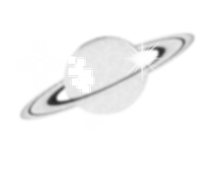
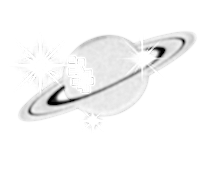
P3: Editing picture sizes to figure out why planet3array isn't displayig, editing out irrelevant stuff from main script, planet class

diff --git a/Projects/Project 3/js/script.js b/Projects/Project 3/js/script.js
@@ -42,15 +42,12 @@ let endscreenImage;
 let textSpeech = "YOU ARE VERY HUNGRY.";
 let pixelFont;
 let playerX = 200;
-let playerY = 130;
+let playerY = 500;
 let playerVX = 0;
 let playerVY = 0;
 let playerSpeed = 10;
-let planet1;
 let planet1Image;
 let planet1Array = [];
-let planet1ArrayIndex = 0;
-let currentP1ArrayImage;
 let planet2Array = [];
 let planet3Array = [];
 let flamingoArray = [];
@@ -58,12 +55,9 @@ let planet1Appear = true;
 let planet1Event = false;
 let planet2;
 let planet2Image;
-let planet2Appear = true;
-let planet2Event = false;
 let planet3;
 let planet3Image;
-let planet3Appear = true;
-let planet3Event = false;
+
 //Declare game states and land states to transition between landscapes or menus/game
 let gameState = 0;
 let landState = 0;
@@ -110,6 +104,9 @@ let characterObject2;
 let characterObject3;
 
 let playerObject;
+
+let menArray = [];
+let messageSound;
 //preload
 //
 //Loads linked resources.
@@ -201,6 +198,12 @@ for (let i = 0; i <=6; i++){
   let flamingoImage = loadImage(flamingoPath);
   flamingoArray.push(flamingoImage);
 }
+
+for(let i = 1; i<= 6; i++){
+  let menPath = "assets/images/men/men" + i + ".png";
+  let menImage = loadImage(menPath);
+  menArray.push(menImage);
+}
   // planet2Image = loadImage("assets/images/eyeball/eyeball.png");
   planet3Image = loadImage("assets/images/eyeball/eyeball.png");
   dogImage = loadImage("assets/images/littledog.png");
@@ -215,6 +218,7 @@ for (let i = 0; i <=6; i++){
   flamingoMidImage = loadImage("assets/images/flamingomedium.png");
 
   tropicalSound = loadSound("assets/sounds/tropical.wav");
+  messageSound = loadSound("assets/sounds/shortelectronic.wav");
 }
 //draw
 //
@@ -289,7 +293,9 @@ function draw() {
     for (let i = 0; i < charactersArray.length; i++) {
       charactersArray[i].move();
       charactersArray[i].draw(landState, flamingoObject);
+      charactersArray[i].handleWrapping();
       charactersArray[i].checkDistance(playerX, playerY, playerWidth);
+      charactersArray[i].checkTextSpeech(playerX, playerY, playerWidth, textSpeech);
     }
     starObject.draw();
     flamingoObject.draw(landState);
@@ -376,71 +382,71 @@ function movePlayerThroughLandscape() {
       landState = 1;
       // Setting coordinates to make it easier to see if this screen movement is working. may change in later prototype
       playerX = 25;
-      playerY = 300;
+      playerY = 7300;
     } else if (playerX < 0) {
       landState = 5;
-      playerX = 25;
-      playerY = 300;
+      playerX = 1300;
+      playerY = 700;
     }
   }
   if (landState === 1) {
     if (playerX >= width) {
       landState = 2;
       playerX = 25;
-      playerY = 300;
+      playerY = 700;
     } else if (playerX < 0) {
       landState = 0;
-      playerX = 25;
-      playerY = 300;
+      playerX = 1300;
+      playerY = 700;
     }
   }
   if (landState === 2) {
     if (playerX >= width) {
       landState = 3;
       playerX = 25;
-      playerY = 300;
+      playerY = 700;
     } else if (playerX < 0) {
       landState = 1;
-      playerX = 25;
-      playerY = 300;
+      playerX = 1300;
+      playerY = 700;
     }
   }
   if (landState === 3) {
     if (playerX >= width) {
       landState = 4;
       playerX = 25;
-      playerY = 300;
+      playerY = 700;
     } else if (playerX < 0) {
       landState = 2;
-      playerX = 25;
-      playerY = 300;
+      playerX = 1300;
+      playerY = 700;
     }
   }
   if (landState === 4) {
     if (playerX >= width) {
       landState = 5;
       playerX = 25;
-      playerY = 300;
+      playerY = 700;
     } else if (playerX < 0) {
       landState = 3;
-      playerX = 25;
-      playerY = 300;
+      playerX = 1300;
+      playerY = 700;
     }
   }
   if (landState === 5) {
     if (playerY >= width) {
       landState = 0;
       playerX = 500;
-      playerY = 20;
+      playerY = 700;
     } else if(playerX < 0){
       landState = 4;
-      playerX = 25;
-      playerY= 300;
+      playerX = 500;
+      playerY= 700;
     }
     if (playerY < 0) {
       landState = 6;
-      playerX = 25;
-      playerY = 300;
+      playerX = 500;
+      playerY = 700;
     }
   }
   if (landState === 6) {
@@ -451,8 +457,8 @@ function movePlayerThroughLandscape() {
     }
     else if(playerY < 0){
       landState = 7;
-      playerX = 25;
-      playerY = 300;
+      playerX = 500;
+      playerY = 700;
     }
   }
   if (landState === 7) {
@@ -463,16 +469,17 @@ function movePlayerThroughLandscape() {
     }
     else if(playerY < 0){
       landState = 8;
-      playerX = 25;
-      playerY = 300;
+      playerX = 300;
+      playerY = 700;
     }
   }
   if (landState === 8) {
     if (playerY >= height) {
       landState = 7;
       playerX = 500;
-      playerY = 20;
+      playerY = 700;
     }
+
   }
 if ( landState ===0 || landState == 1 || landState == 2 || landState == 3 || landState == 4) {
   playerY = constrain(playerY, 0, height-100);
@@ -480,6 +487,9 @@ if ( landState ===0 || landState == 1 || landState == 2 || landState == 3 || lan
 
 if (landState == 6|| landState == 7 || landState == 8){
   playerX = constrain(playerX, 0, width-75);
+  if(landState == 8){
+    playerY = constrain(playerY, -70, height);
+  }
 }
 }
 
@@ -511,14 +521,14 @@ function landState1Display() {
 //
 //This displays game objects in the third landstate that arent loaded through Planet class
 function landState2Display() {
-  // Create formula for sin oscillation based on radius
-  let growth2 = sin(angle) * (radius / 8);
-  // Display relevant NPC images
-  image(menImage, 600, 500, menWidth, 86 + growth2);
-  image(menImage, 650, 450, menWidth, 86 + growth2);
-  image(menImage, 550, 400, menWidth, 86 + growth2);
-  // Update angle every frame to create oscillation
-  angle += 0.05;
+  // // Create formula for sin oscillation based on radius
+  // let growth2 = sin(angle) * (radius / 8);
+  // // Display relevant NPC images
+  // image(menImage, 600, 500, menWidth, 86 + growth2);
+  // image(menImage, 650, 450, menWidth, 86 + growth2);
+  // image(menImage, 550, 400, menWidth, 86 + growth2);
+  // // Update angle every frame to create oscillation
+  // angle += 0.05;
   //Check player distance to NPC and if close enough display text
   let d = dist(playerX, playerY, 550, 500);
   if (d < playerWidth + menWidth) {
@@ -547,7 +557,7 @@ function landState6Display() {
   let volume1 = map(playerY, height, 0, 0, 1);
   volume1 = constrain(volume1, 0.3, 0.6);
   tropicalSound.amp(volume1);
-
+image(flamingoMidImage, 500, 0, flamingoMidImage.width, flamingoMidImage.height);
 }
 function landState7Display() {
   textSpeech = "landstate7";
@@ -557,6 +567,7 @@ function landState7Display() {
   let volume2 = map(playerY, height, 0, 0, 1);
   volume2 = constrain(volume2, 0.6, 0.9);
   tropicalSound.amp(volume2);
+  image(flamingoMidImage, 500, 0, flamingoMidImage.width, flamingoMidImage.height);
 }
 function landState8Display() {
   textSpeech = "landstate8";
@@ -569,23 +580,38 @@ function landState8Display() {
 function callClassObjects() {
   playerObject = new Player (100, 50, 10, playerLeft1, playerRight1, eatSound);
 
-  let planetObject1 = new Planet(850, 50, planet2Array, spaceGif, 0, eatSound, crumbsImage);
-  let planetObject2 = new Planet(850, 50, planet2Array, 1, eatSound, crumbsImage);
-  let planetObject3 = new Planet(850, 50, planet3Array, 2, eatSound, crumbsImage);
-  let planetObject4 = new Planet(850, 50, planet3Array, 3, eatSound, crumbsImage);
-  let planetObject5 = new Planet(850, 50, planet3Array, 4, eatSound, crumbsImage);
+  let planetObject1 = new Planet(850, 50, planet2Array, spaceGif, 0, eatSound);
+  let planetObject2 = new Planet(850, 50, planet1Array,spaceGif, 1, eatSound);
+  let planetObject3 = new Planet(850, 50, planet1Array,spaceGif, 2, eatSound);
+  let planetObject4 = new Planet(500, 50, planet3Array, spaceGif, 0, eatSound);
+  let planetObject5 = new Planet(500, 50, planet3Array, spaceGif, 0, eatSound);
   planetsArray.push(planetObject1);
   planetsArray.push(planetObject2);
   planetsArray.push(planetObject3);
 
   flamingoObject = new Flamingo(300, 100, flamingoArray, 8, eatSound);
 
-  characterObject1 = new Character(200, 300, planet1Array, 0, eatSound, 4);
-  characterObject2 = new Character(300, 300, planet1Array, 0, eatSound, 6);
-  characterObject3 = new Character(350, 300, planet1Array, 0, eatSound, 8);
+  characterObject1 = new Character(200, 300, menArray, 0, messageSound, 1, "NONONONONNO");
+  characterObject2 = new Character(300, 300, menArray, 0, messageSound, 2, "GAH");
+  characterObject3 = new Character(350, 300, menArray, 0, messageSound, 0.2, "FAREWELL SWEET PRINCE");
+  characterObject4 = new Character(350, 300, menArray, 0, messageSound, 0.2, "FAREWELL SWEET PRINCE");
+  characterObject5 = new Character(600, 350, menArray, 2, messageSound, 0.2, "GAH");
+  characterObject6 = new Character(750, 300, menArray, 2, messageSound, 0.2, "FAREWELL SWEET PRINCE");
+  characterObject7 = new Character(760, 305, menArray, 2, messageSound, 0.2, "FAREWELL SWEET PRINCE");
+  characterObject8 = new Character(700, 350, menArray, 2, messageSound, 0.3, "GAH");
+  characterObject9 = new Character(650, 320, menArray, 2, messageSound, 0.2, "FAREWELL SWEET PRINCE");
+  characterObject10 = new Character(620, 310, menArray, 2, messageSound, 0.2, "FAREWELL SWEET PRINCE");
+  
   charactersArray.push(characterObject1);
   charactersArray.push(characterObject2);
   charactersArray.push(characterObject3);
+  charactersArray.push(characterObject4);
+  charactersArray.push(characterObject5);
+  charactersArray.push(characterObject6);
+  charactersArray.push(characterObject7);
+  charactersArray.push(characterObject8);
+  charactersArray.push(characterObject9);
+  charactersArray.push(characterObject10);
 
 }
 //displayPlayer
@@ -620,10 +646,6 @@ function checkDistanceDog() {
       secondDogAppear = true;
       return;
     }
-    // This is irrelevant but i'm keeping it here for reference
-    // if (keyIsDown(SHIFT)) {
-    //   triggerAnimationPlanet1();
-    // }
   }
 }
 
@@ -651,18 +673,6 @@ function mousePressed() {
   }
   // If game has started, player can basically 'print'  stars by clicking mouse
   if (gameState === 1) {
-    // if(gifArrayCount<4){
-    //   gifArrayCount++;
-    //
-    // }
-    // // else{
-    // //     gifArrayCount=0;
-    // // }
-    // //all this stuff would just be 'create star object'
-    // for (let i = 0; i < gifArrayCount; i++) {
-    //    console.log(i)
-    //     gifArray[i].position(mouseX, mouseY);
-    // }
 
     starObject = new Star(mouseX, mouseY);
   }

diff --git a/Projects/Project 3/js/Character.js b/Projects/Project 3/js/Character.js
@@ -1,6 +1,6 @@
 class Character extends Planet{
-  constructor (x, y, array, landState, eatSound, speed){
-    super(x, y, array, landState, eatSound) // can i use these although they're titled diferently in the planet file?? do i have to declare them here
+  constructor (x, y, array, landState, messageSound, speed, textSpeech){
+    super(x, y, array, landState) // can i use these although they're titled diferently in the planet file?? do i have to declare them here
     this.x = x;
     this.y = y;
     // Velocity and speed
@@ -19,6 +19,7 @@ class Character extends Planet{
     // Sin properties for oscillation 'animation'
     this.angle = 0;
     this.radius = this.width/2;
+    this.textSpeech = "textSpeech";
   }
   // move
   //
@@ -56,6 +57,16 @@ class Character extends Planet{
       }
       else if (this.y > height) {
         this.y -= height;
+      }
+    }
+
+    checkTextSpeech(playerX, playerY, playerWidth, textSpeech){
+      this.d = dist(playerX, playerY, this.x, this.y);
+      if (this.d < playerWidth + this.width) {
+        textSpeech = this.textSpeech;
+        messageSound.amp(0.3);
+        messageSound.playMode('untilDone');
+        messageSound.play();
       }
     }
 }

diff --git a/Projects/Project 3/js/Planet.js b/Projects/Project 3/js/Planet.js
@@ -3,7 +3,7 @@
 // Planet class creates planet objects that are defined by their array of images that can be triggered by player into an
 //animation
 class Planet {
-  constructor(x, y, spaceArray, gif, landState, eatSound, crumbs) {
+  constructor(x, y, spaceArray, gif, landState, eatSound) {
     this.x = x;
     this.y = y;
     this.spaceArray = spaceArray;
@@ -13,8 +13,11 @@ class Planet {
     this.landState = landState;
     this.eatSound = eatSound;
     this.gif = gif;
-    this.crumbs = crumbsImage;
     this.playGif = false;
+
+    this.height = this.currentArrayImage.height;
+    this.angle = 0;
+    this.radius = this.width /2;
   }
   //triggerAnimation
   //
@@ -43,7 +46,10 @@ class Planet {
 
     }
     this.currentArrayImage = this.spaceArray[this.currentArrayIndex];
-    image(this.currentArrayImage, this.x, this.y);
+    this.growth = sin(this.angle)*(this.radius/8);
+
+    image(this.currentArrayImage, this.x, this.y, this.width + this.growth, this.height);
+    this.angle += 0.05;
     // image(spaceGif, this.x-20, this.y-20);
     // this.gif.position(this.x -20, this.y -20);
     //  this.gif.pause();
